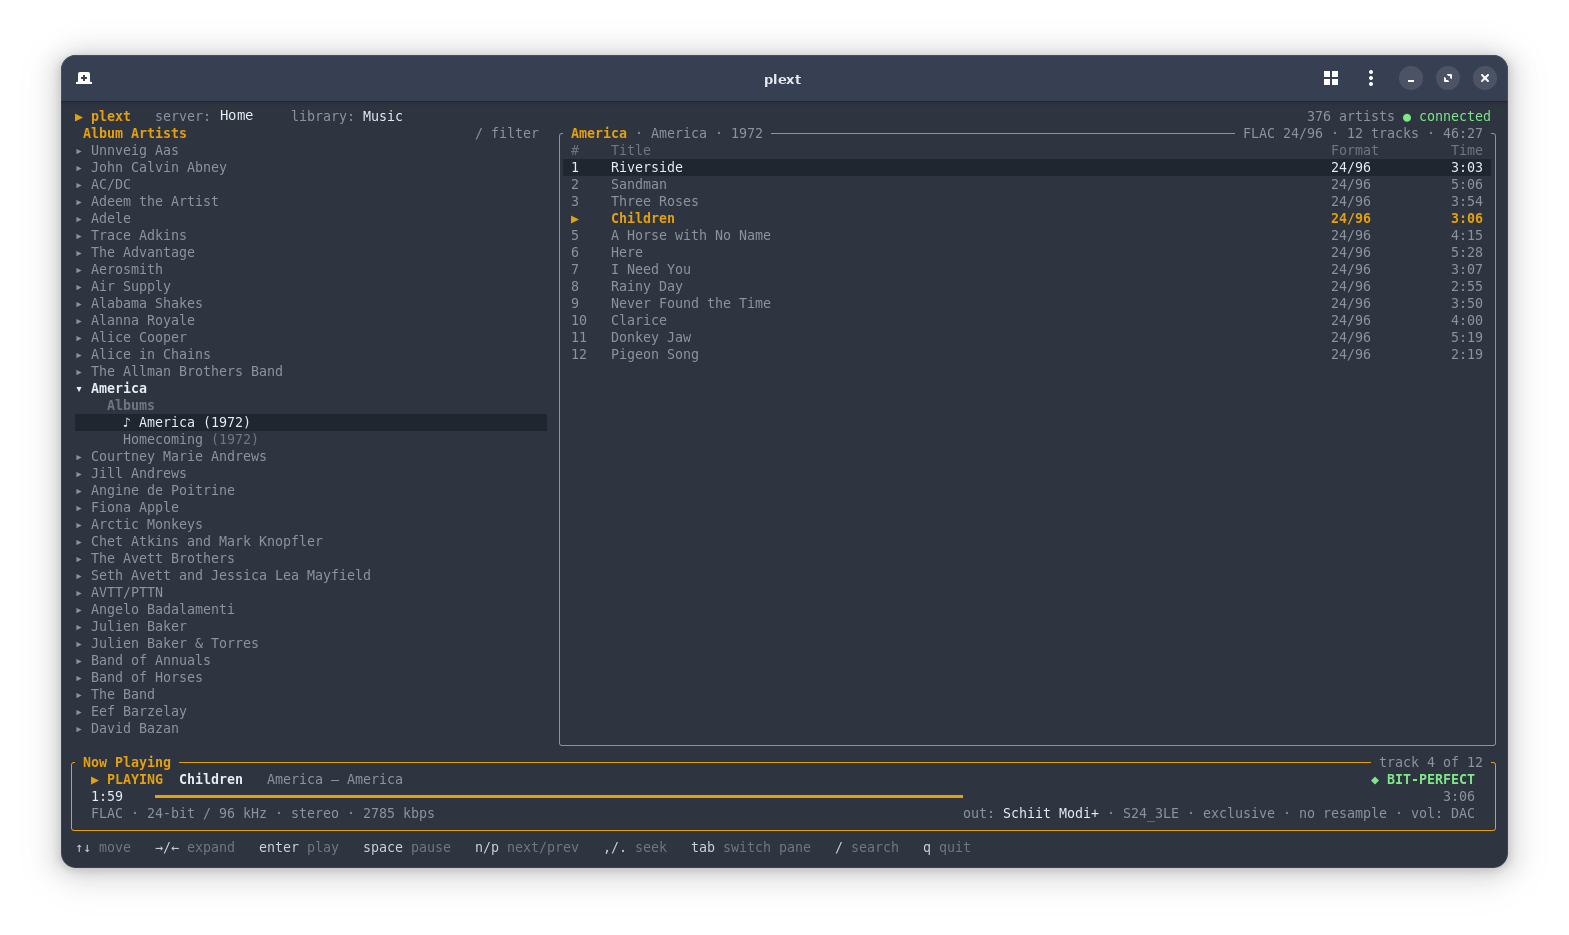
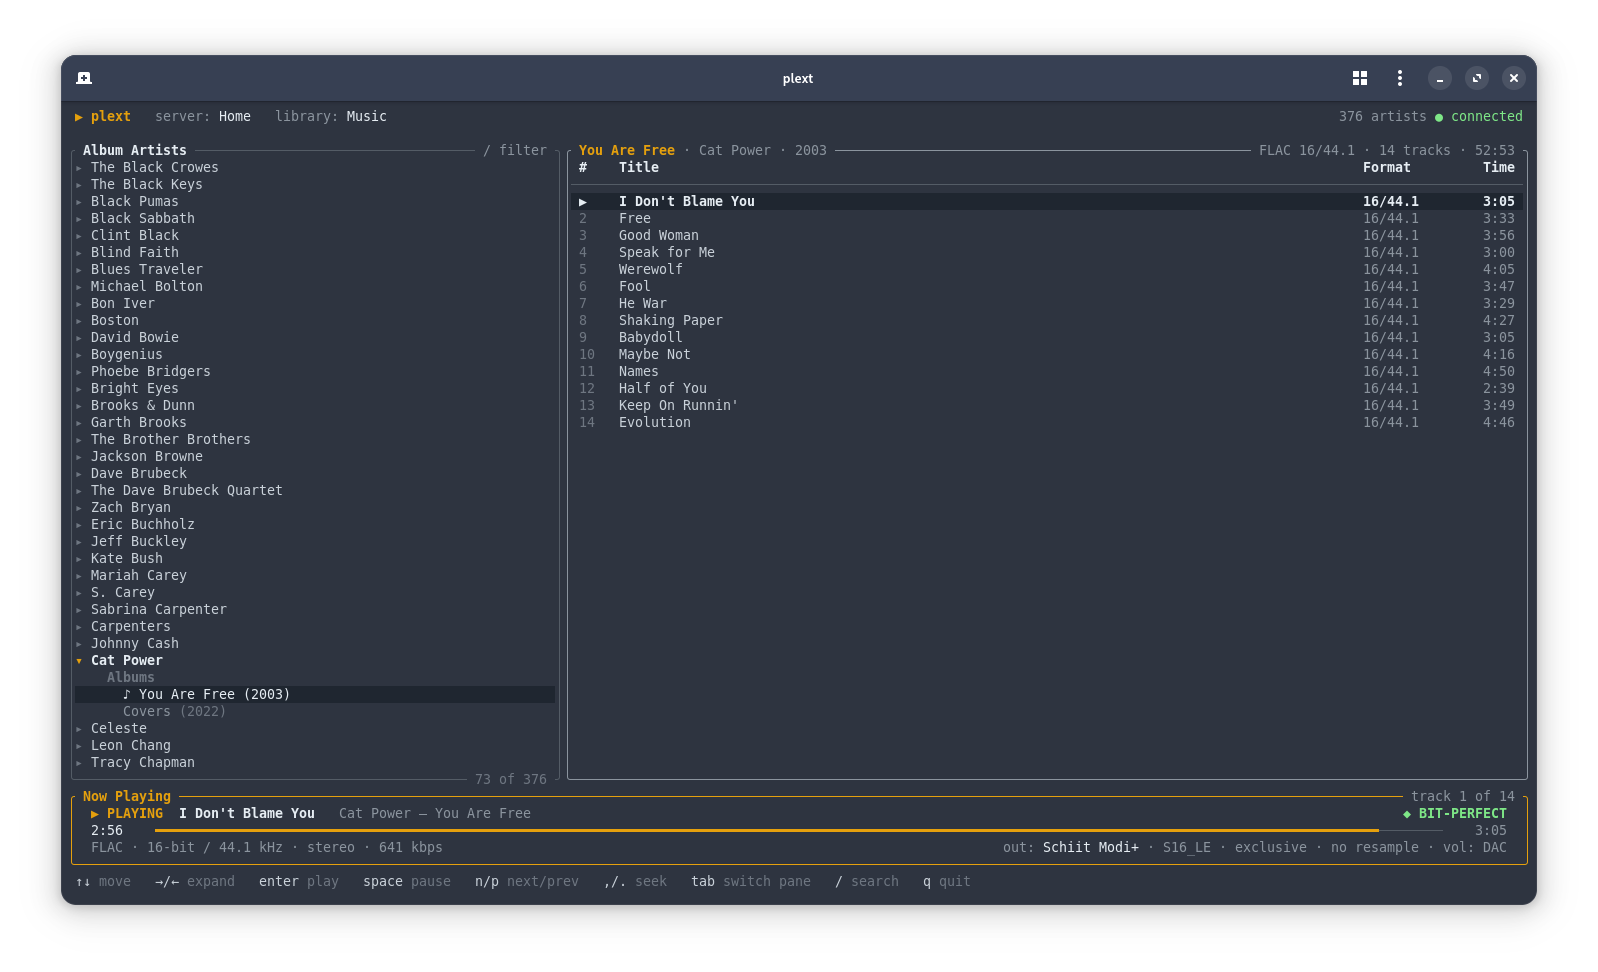
Update screenshot for the new layout
New screenshot of the 0.3.2 UI. The terminal title bar shows only
"plext" and the server name is the generic "Home". README alt text
updated to match the album shown.

Claude-Session: https://claude.ai/code/session_01DPoymUZ33rc1a8EJaeFUbJ

diff --git a/README.md b/README.md
@@ -4,7 +4,7 @@ A terminal music player for Plex with bit-perfect playback straight to your DAC.
 Browse your album artists and albums, stream lossless and high-res audio untouched,
 all from a single static binary for Linux.
 
-![Plext playing a 24-bit/96 kHz album bit-perfect through a USB DAC](docs/screenshot.png)
+![Plext playing a 16-bit/44.1 kHz FLAC album bit-perfect through a USB DAC](docs/screenshot.png)
 
 ## Features
 
